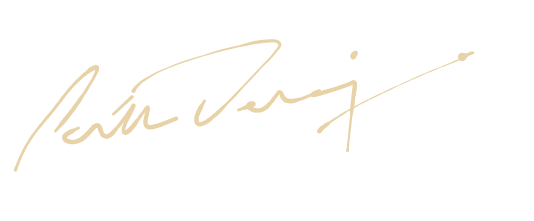
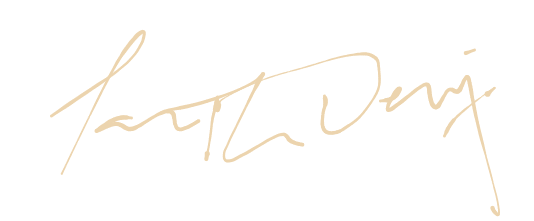
udpated home page

diff --git a/my-app/src/components/Home/Home.scss b/my-app/src/components/Home/Home.scss
@@ -10,16 +10,16 @@
 
 .pic {
   position: absolute;
-  right: 0%;
+  left: 2%;
   bottom: 0;
-  width: 45%;
-  height: 100%;
+  width: 44%;
+  // height: 100%;
 }
 
 .home-name {
   position: absolute;
   top: 40%;
-  left: 30%;
+  right: 20%;
   font-family: "Comic Neue", cursive;
   text-transform: uppercase;
   font-weight: 600;
@@ -30,7 +30,7 @@
 .tag {
   position: absolute;
   top: 50%;
-  left: 31.5%;
+  left: 57.5%;
   font-family: "Comic Neue", cursive;
   font-weight: 600;
   font-size: 2rem;

diff --git a/my-app/src/components/Home/Home.js b/my-app/src/components/Home/Home.js
@@ -7,7 +7,7 @@ export default function Home() {
   return (
     <main className="main-page">
       <div id="profile-picture">
-        {/* <img className="pic" src={require("../images/profile-pic.jpg")} /> */}
+        <img className="pic" src={require("../images/profile-pic.png")} />
         <h2 className="home-name">Parth Desai</h2>
         <Typing className="tag" speed={50}>
           <span>I am a </span>

diff --git a/my-app/src/components/Resume/Resume.scss b/my-app/src/components/Resume/Resume.scss
@@ -19,7 +19,7 @@
   padding-bottom: 5px;
 }
 
-// ***** Experience items ****** //
+// ***** Experience & Education items ****** //
 
 .line-left {
   width: 3px;

diff --git a/my-app/src/components/About/About.scss b/my-app/src/components/About/About.scss
@@ -25,6 +25,7 @@
   width: 26%;
   text-align: center;
   margin-bottom: 3%;
+
 }
 
 .page-subheading {
